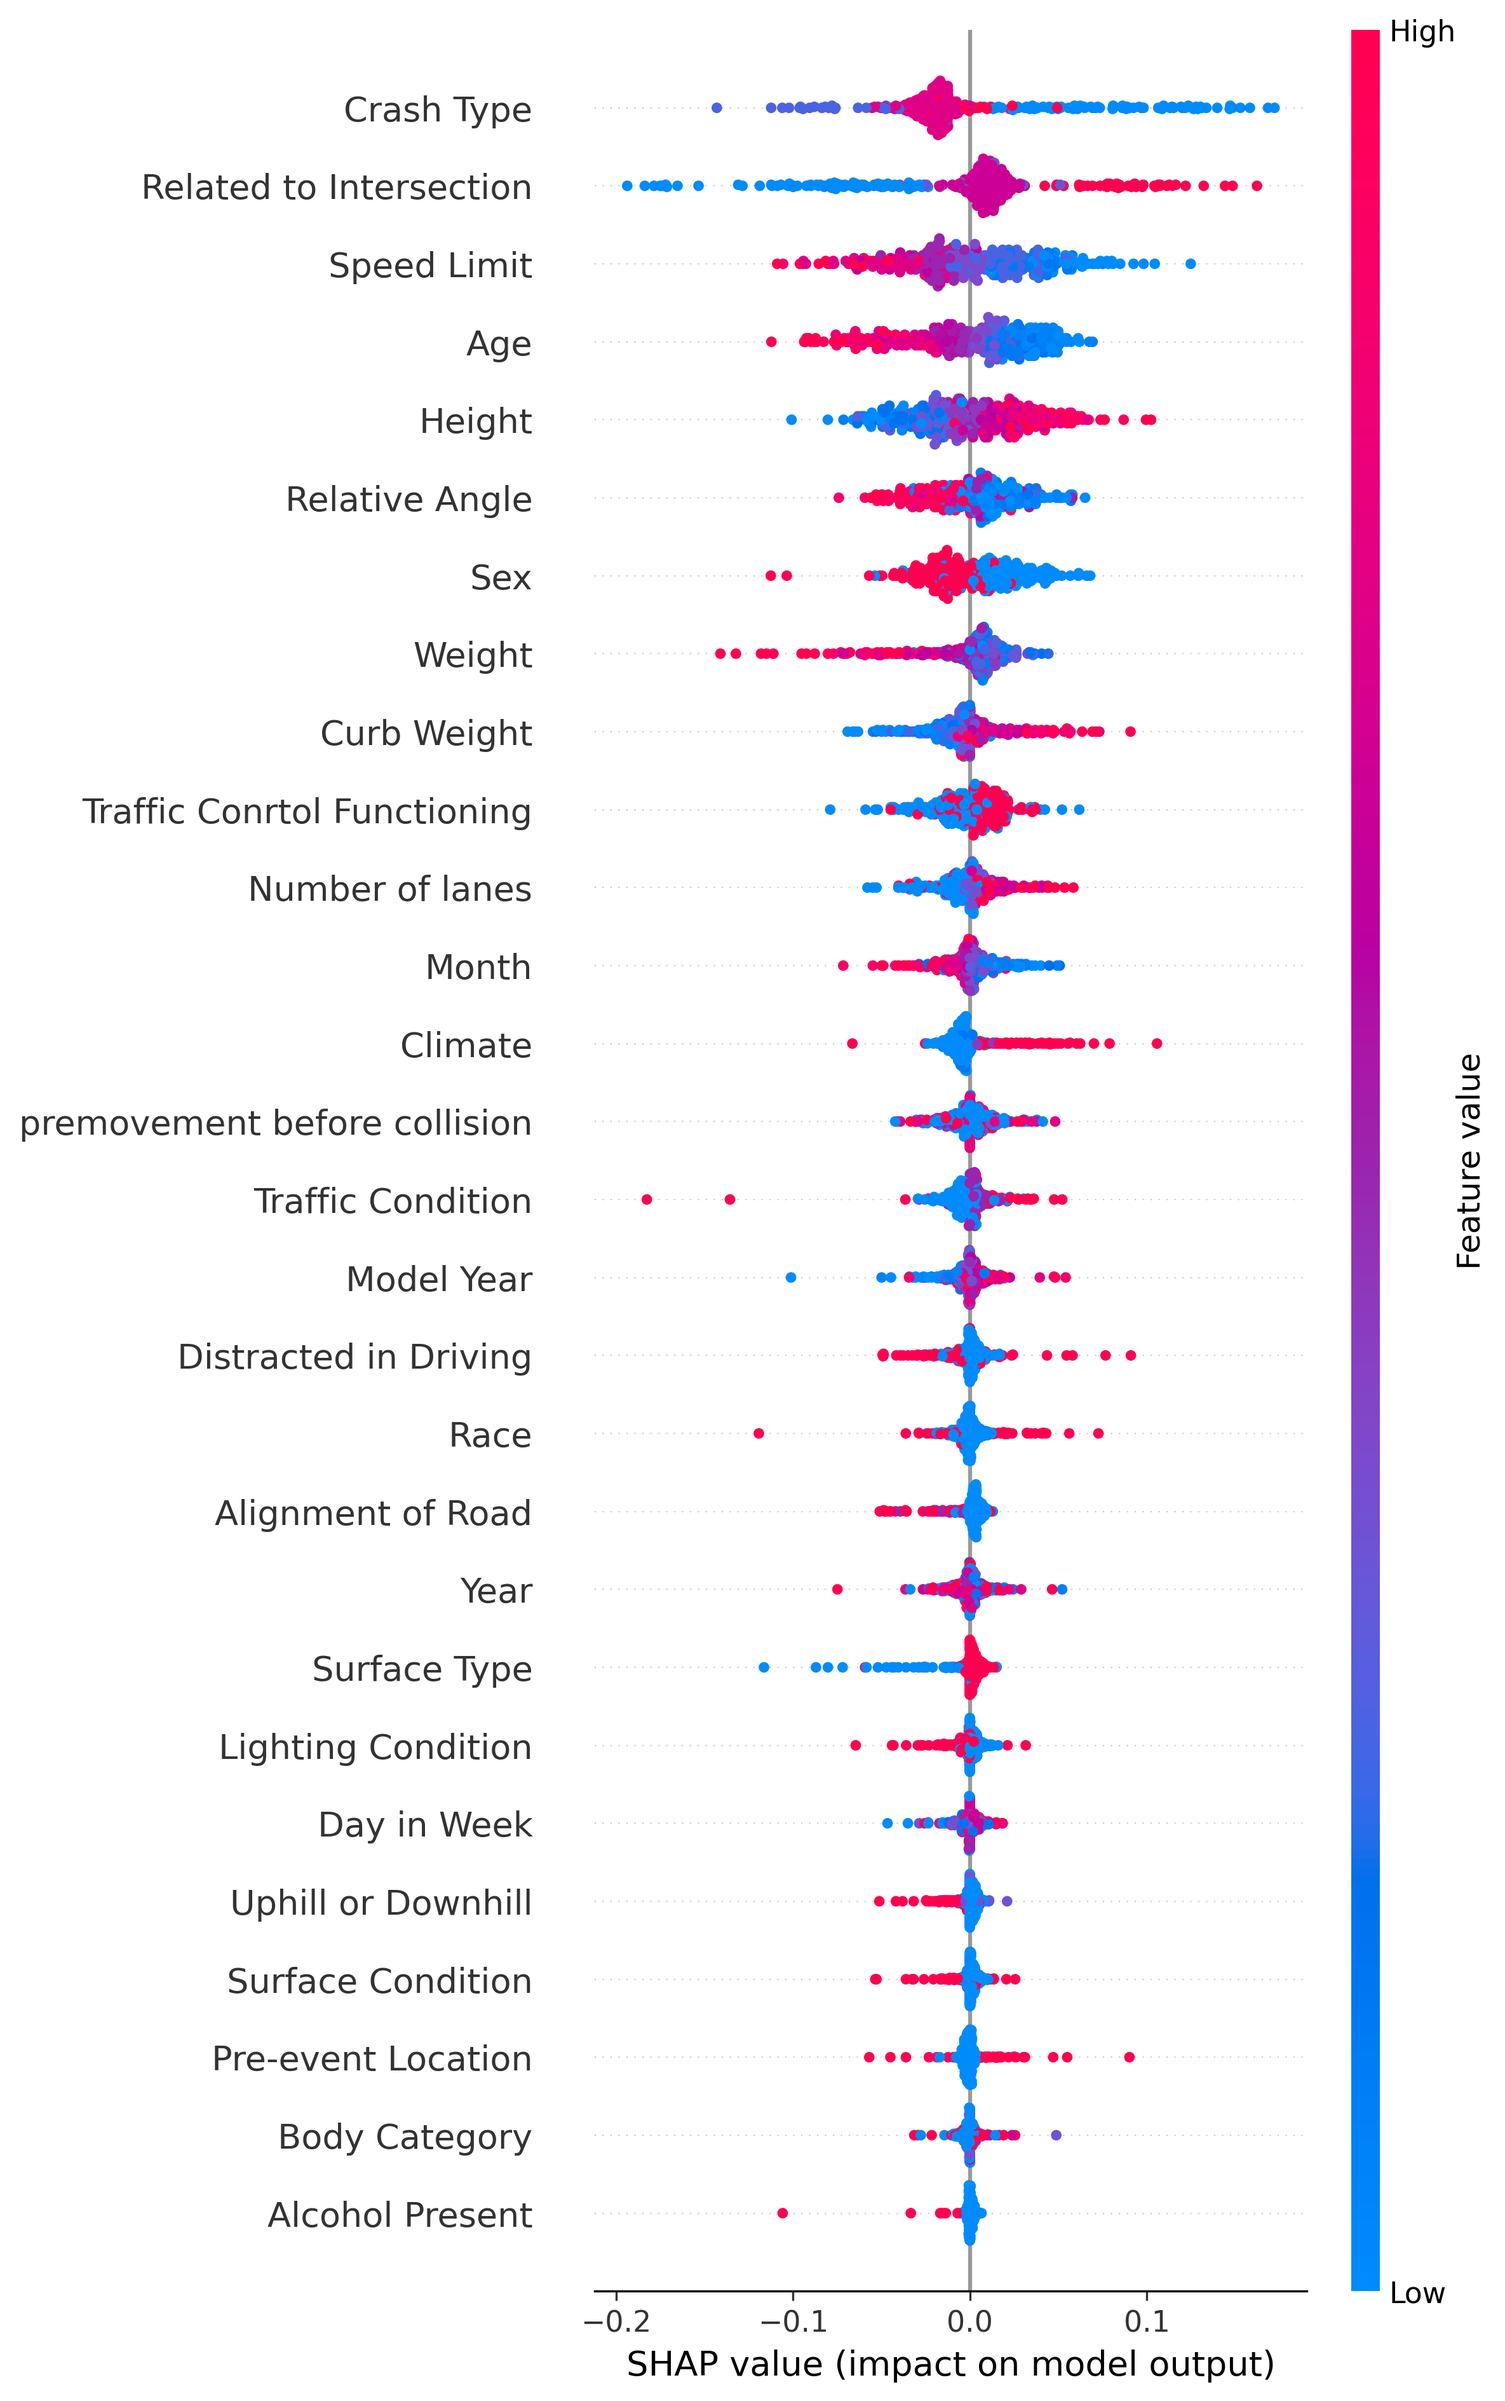
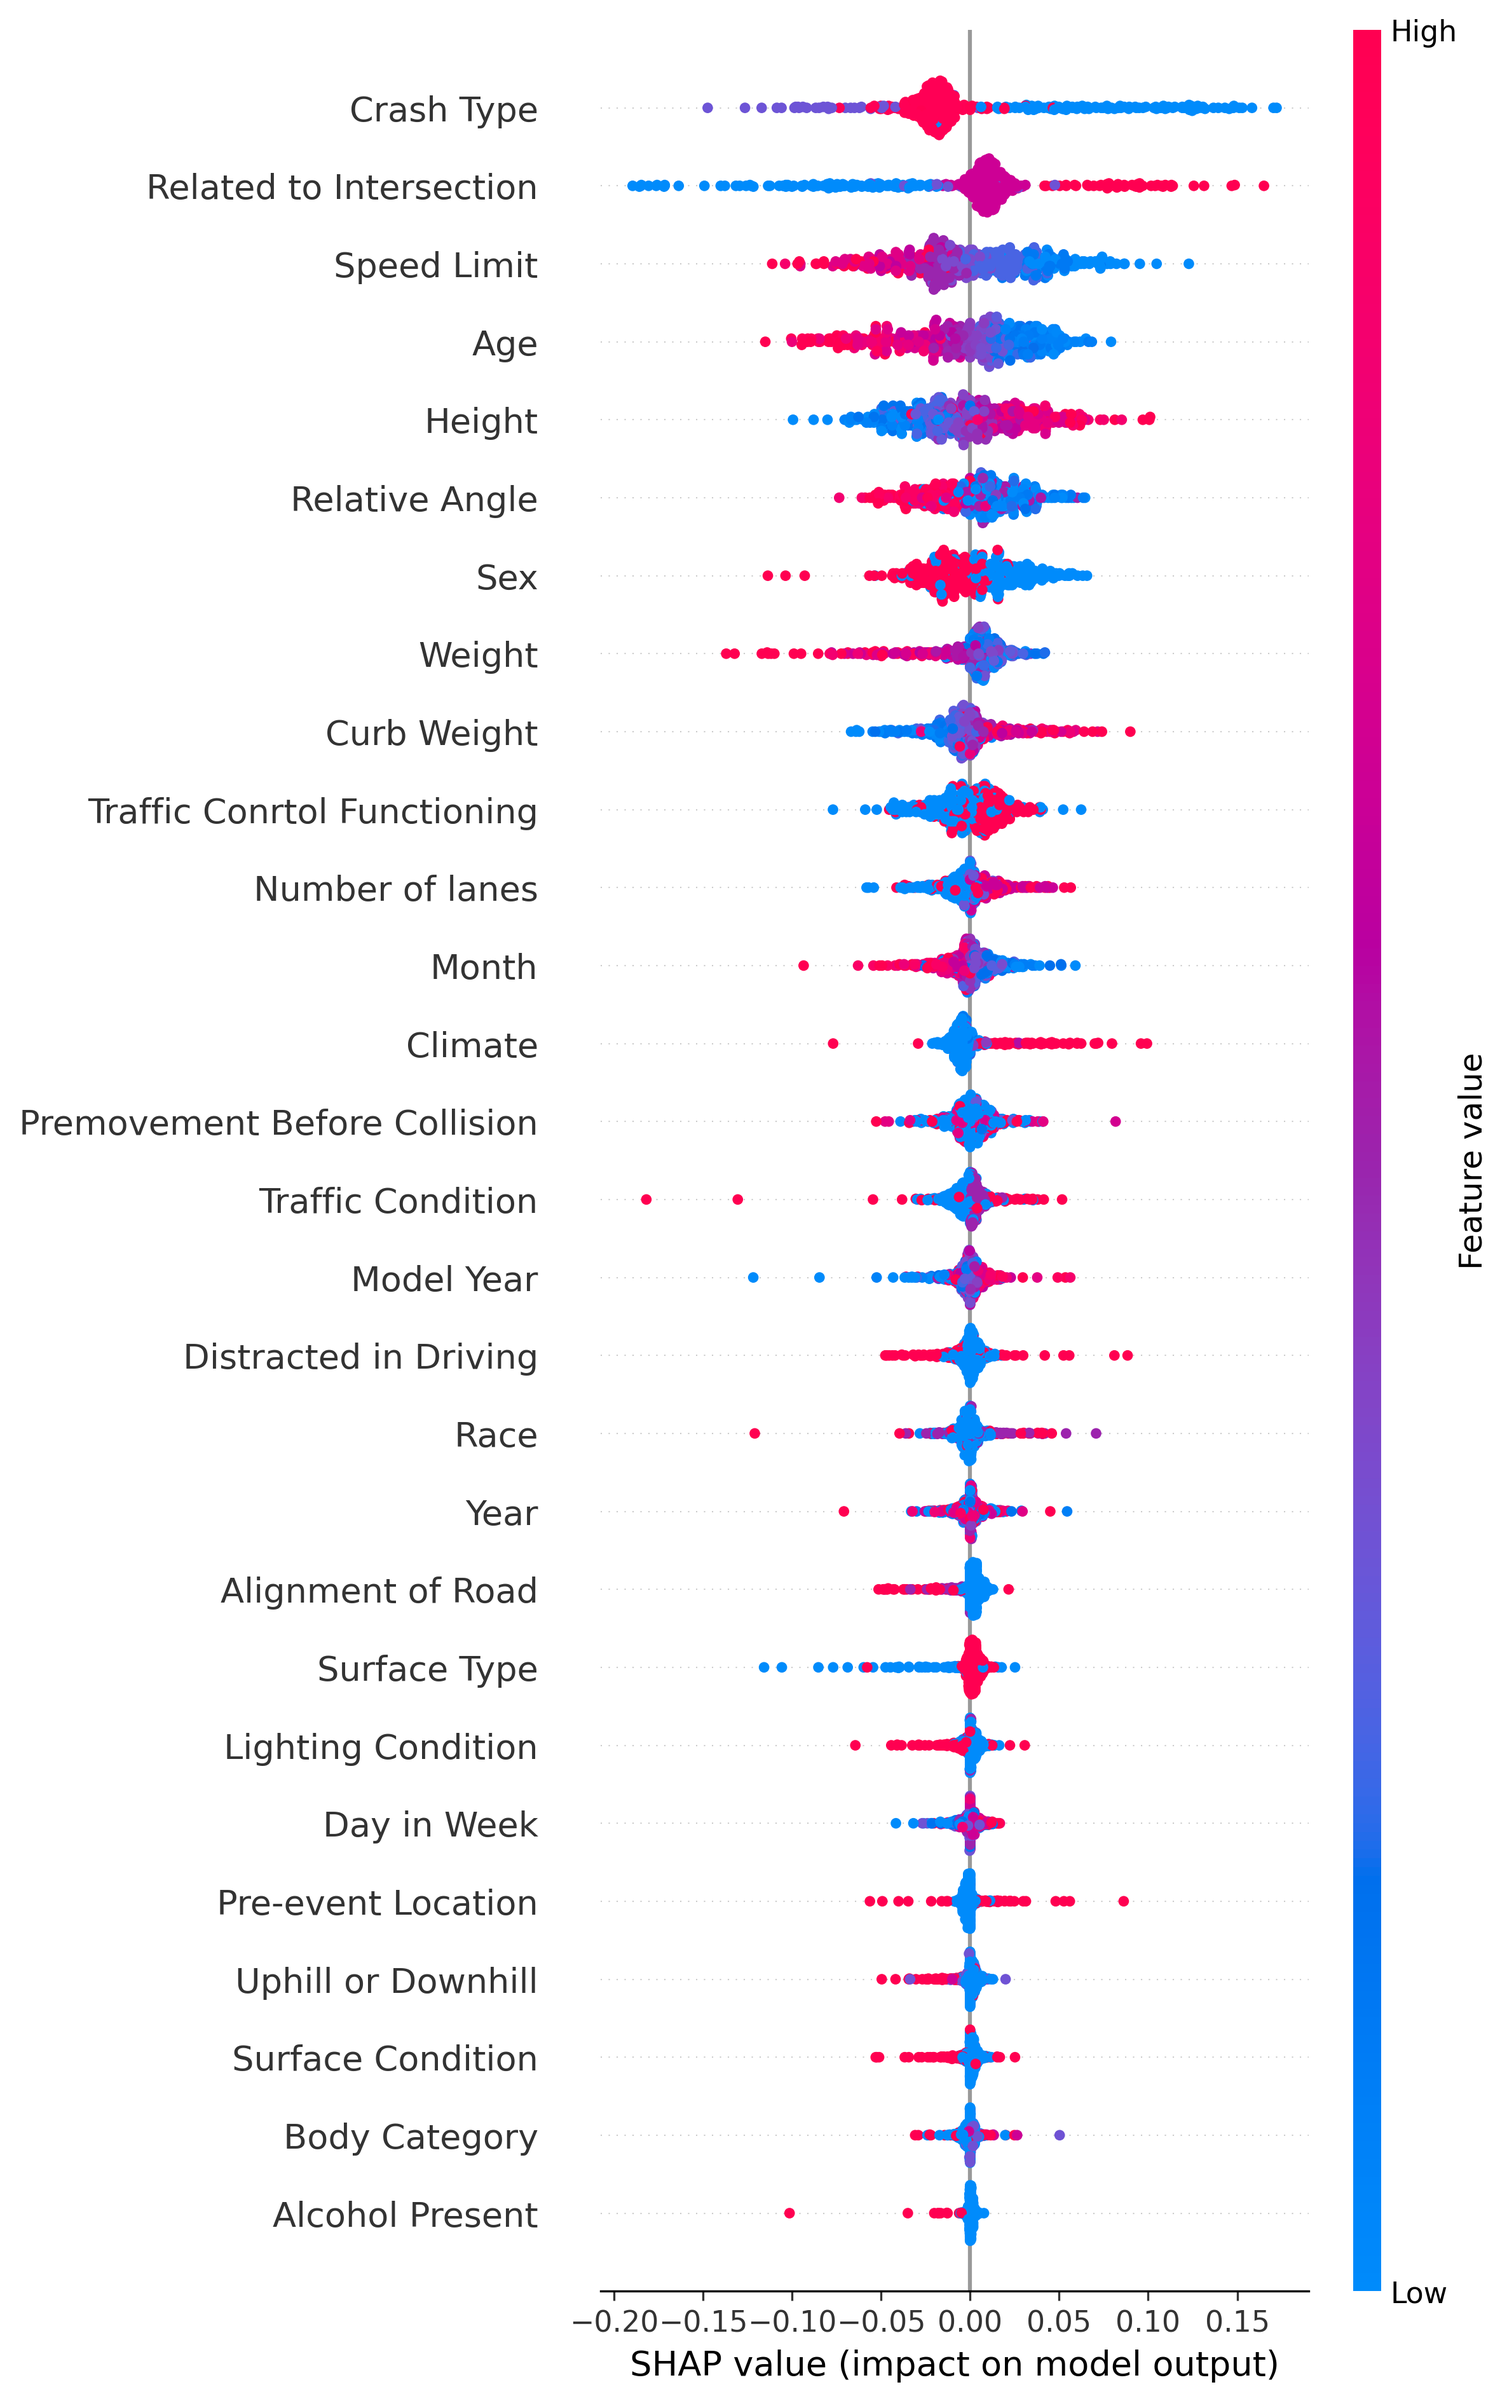
Update feature names

Changed region(s): [[0.0625, 0.0312, 0.3436, 0.9373], [0.4998, 0.0312, 0.7184, 0.906], [0.4061, 0.9373, 0.8434, 0.9997]]

diff --git a/src/analyze/shap_anl.py b/src/analyze/shap_anl.py
@@ -22,7 +22,7 @@ if __name__ == "__main__":
     # Rename PDOF as relative angle
     x_test.rename(columns={'Clock-form Direction of force': 'Relative Angle',
                            'height': 'Height',
-                           'Premovement before collision': 'Premovement Before Collision',
+                           'premovement before collision': 'Premovement Before Collision',
                            'month': 'Month',
                            'weight': 'Weight',
                            'year': 'Year'
@@ -41,9 +41,9 @@ if __name__ == "__main__":
     os.makedirs(anl_path, exist_ok=True)
 
     # SHAP for interpretation
-    background = shap.sample(x_test, 500)
+    background = shap.sample(x_test, 600)
     explainer = shap.KernelExplainer(model.predict_proba, background)  # Choose 400 cases for background
-    shap_values = explainer.shap_values(x_test[:400])
+    shap_values = explainer.shap_values(x_test[:500])
 
     inury_level = ['No Injury', 'Slight Injury', 'Severe Injury']
 
@@ -53,7 +53,7 @@ if __name__ == "__main__":
     # for i in range(len(shap_values)):
     for class_indedx in range(shap_values.shape[2]):
         shape_val_class = shap_values[:, :, class_indedx]
-        shap.summary_plot(shape_val_class, x_test[:400],
+        shap.summary_plot(shape_val_class, x_test[:500],
                           feature_names=x_test.columns, max_display=28, show=False
                           )
         plt.savefig(os.path.join(beeswarm_path, f"SHAP_summary_plot_of_{inury_level[class_indedx]}.png"),
@@ -70,7 +70,7 @@ if __name__ == "__main__":
         shap_values_expl = shap.Explanation(
             values=shap_values[:, :, class_indedx],
             base_values=explainer.expected_value[class_indedx],
-            data=x_test[:400],
+            data=x_test[:500],
             feature_names=x_test.columns
         )
         shap.plots.heatmap(shap_values_expl, max_display=28, show=False, plot_width=13.0)

diff --git a/src/analyze/tab_attention_anl.py b/src/analyze/tab_attention_anl.py
@@ -20,7 +20,14 @@ if __name__ == '__main__':
     y_test = pd.Series(y_test['InjurySeverity'].values)
 
     # Rename PDOF as relative angle
-    x_test.rename(columns={'Clock-form Direction of force': 'Relative Angle'}, inplace=True)
+    x_test.rename(columns={'Clock-form Direction of force': 'Relative Angle',
+                           'height': 'Height',
+                           'premovement before collision': 'Premovement Before Collision',
+                           'month': 'Month',
+                           'weight': 'Weight',
+                           'year': 'Year'
+                           },
+                  inplace=True)
 
     # Read model
     model_path = os.path.join(os.path.dirname(os.path.dirname(os.getcwd())),
